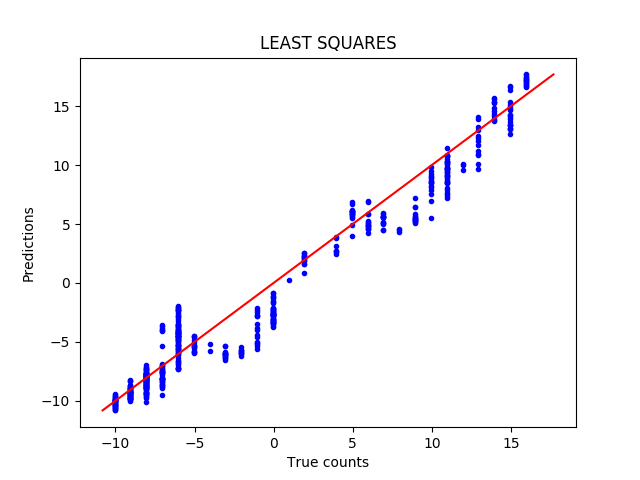
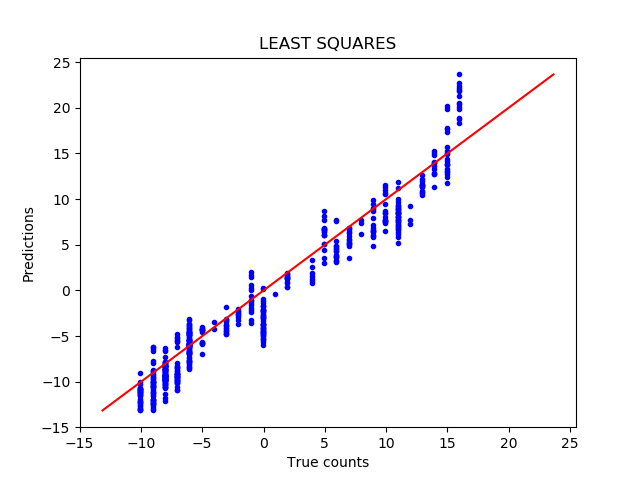
2b

diff --git a/src/main_2b.py b/src/main_2b.py
@@ -1,7 +1,7 @@
 from params import *
 from least_squares import LeastSquares
 from regularized_least_squares import RegularizedLeastSquares
-from lasso import Lasso
+# from lasso import Lasso
 from robust_regression import RobustRegression
 from bayesian_regression import BayesianRegression
 from dataset import DataSet
@@ -11,13 +11,14 @@ result_sub_path = result_path + 'part2a/'
 #get data
 sample_data = DataSet(cnt_sample_x_path, cnt_sample_y_path)
 sample_x, sample_y = sample_data.x, sample_data.y
-sample_phi = generate_polynomial_features(sample_x, polynomial_degree=10)
-
+sample_phi = generate_counting_features(sample_x)
+# print (np.amax(sample_phi), np.amin(sample_phi))
 print (sample_x.shape, sample_y.shape, sample_phi.shape)
 
 gt_data = DataSet(cnt_gt_x_path, cnt_gt_y_path)
 gt_x, gt_y = gt_data.x, gt_data.y
-gt_phi = gt_x
+gt_phi = generate_counting_features(gt_x)
+# print (np.amax(gt_phi), np.amin(gt_phi))
 
 def deploy_least_square():
     title = 'LEAST SQUARES'
@@ -221,6 +222,6 @@ def bayesian_regression():
 #
 deploy_least_square()
 deploy_regularized_least_squares()
-deploy_lasso()
+# deploy_lasso()
 deploy_robust_regression()
 bayesian_regression()

diff --git a/src/common.py b/src/common.py
@@ -8,6 +8,29 @@ def generate_polynomial_features(x, polynomial_degree=5):
         phi = np.append(phi, [x ** k], axis=0)
     return phi
 
+def generate_counting_features(x):
+    x = x.T
+    (num_samples, dimension) = x.shape
+    #initialize with bias features
+    phi = [[1.0] for _ in range(num_samples)]
+
+    #append normalized features
+    for i in range(num_samples):
+        for j in range(dimension):
+            phi[i].append((x[i][j] - min_counting_feature) / range_counting_feature)
+
+    #append 2nd order polinomial features
+    for i in range(num_samples):
+        for j in range(1, dimension + 1):
+            for k in range(j, dimension + 1):
+                phi[i].append(phi[i][j] * phi[i][k])
+
+    phi = np.array(phi).T
+    # print (phi.shape)
+    # print (x.shape)
+
+    return phi
+
 def compute_mean_squared_error(pred_y, gt_y):
     N = pred_y.shape[0]
     return math.sqrt(sum([(pred_y[i] - gt_y[i]) ** 2 for i in range(N)])/N)

diff --git a/src/params.py b/src/params.py
@@ -20,3 +20,7 @@ cnt_sample_y_path = '../data/count_data_trainy.txt'
 
 cnt_gt_x_path = '../data/count_data_testx.txt'
 cnt_gt_y_path = '../data/count_data_testy.txt'
+
+max_counting_feature = 3.5
+min_counting_feature = -2.5
+range_counting_feature = max_counting_feature - min_counting_feature
